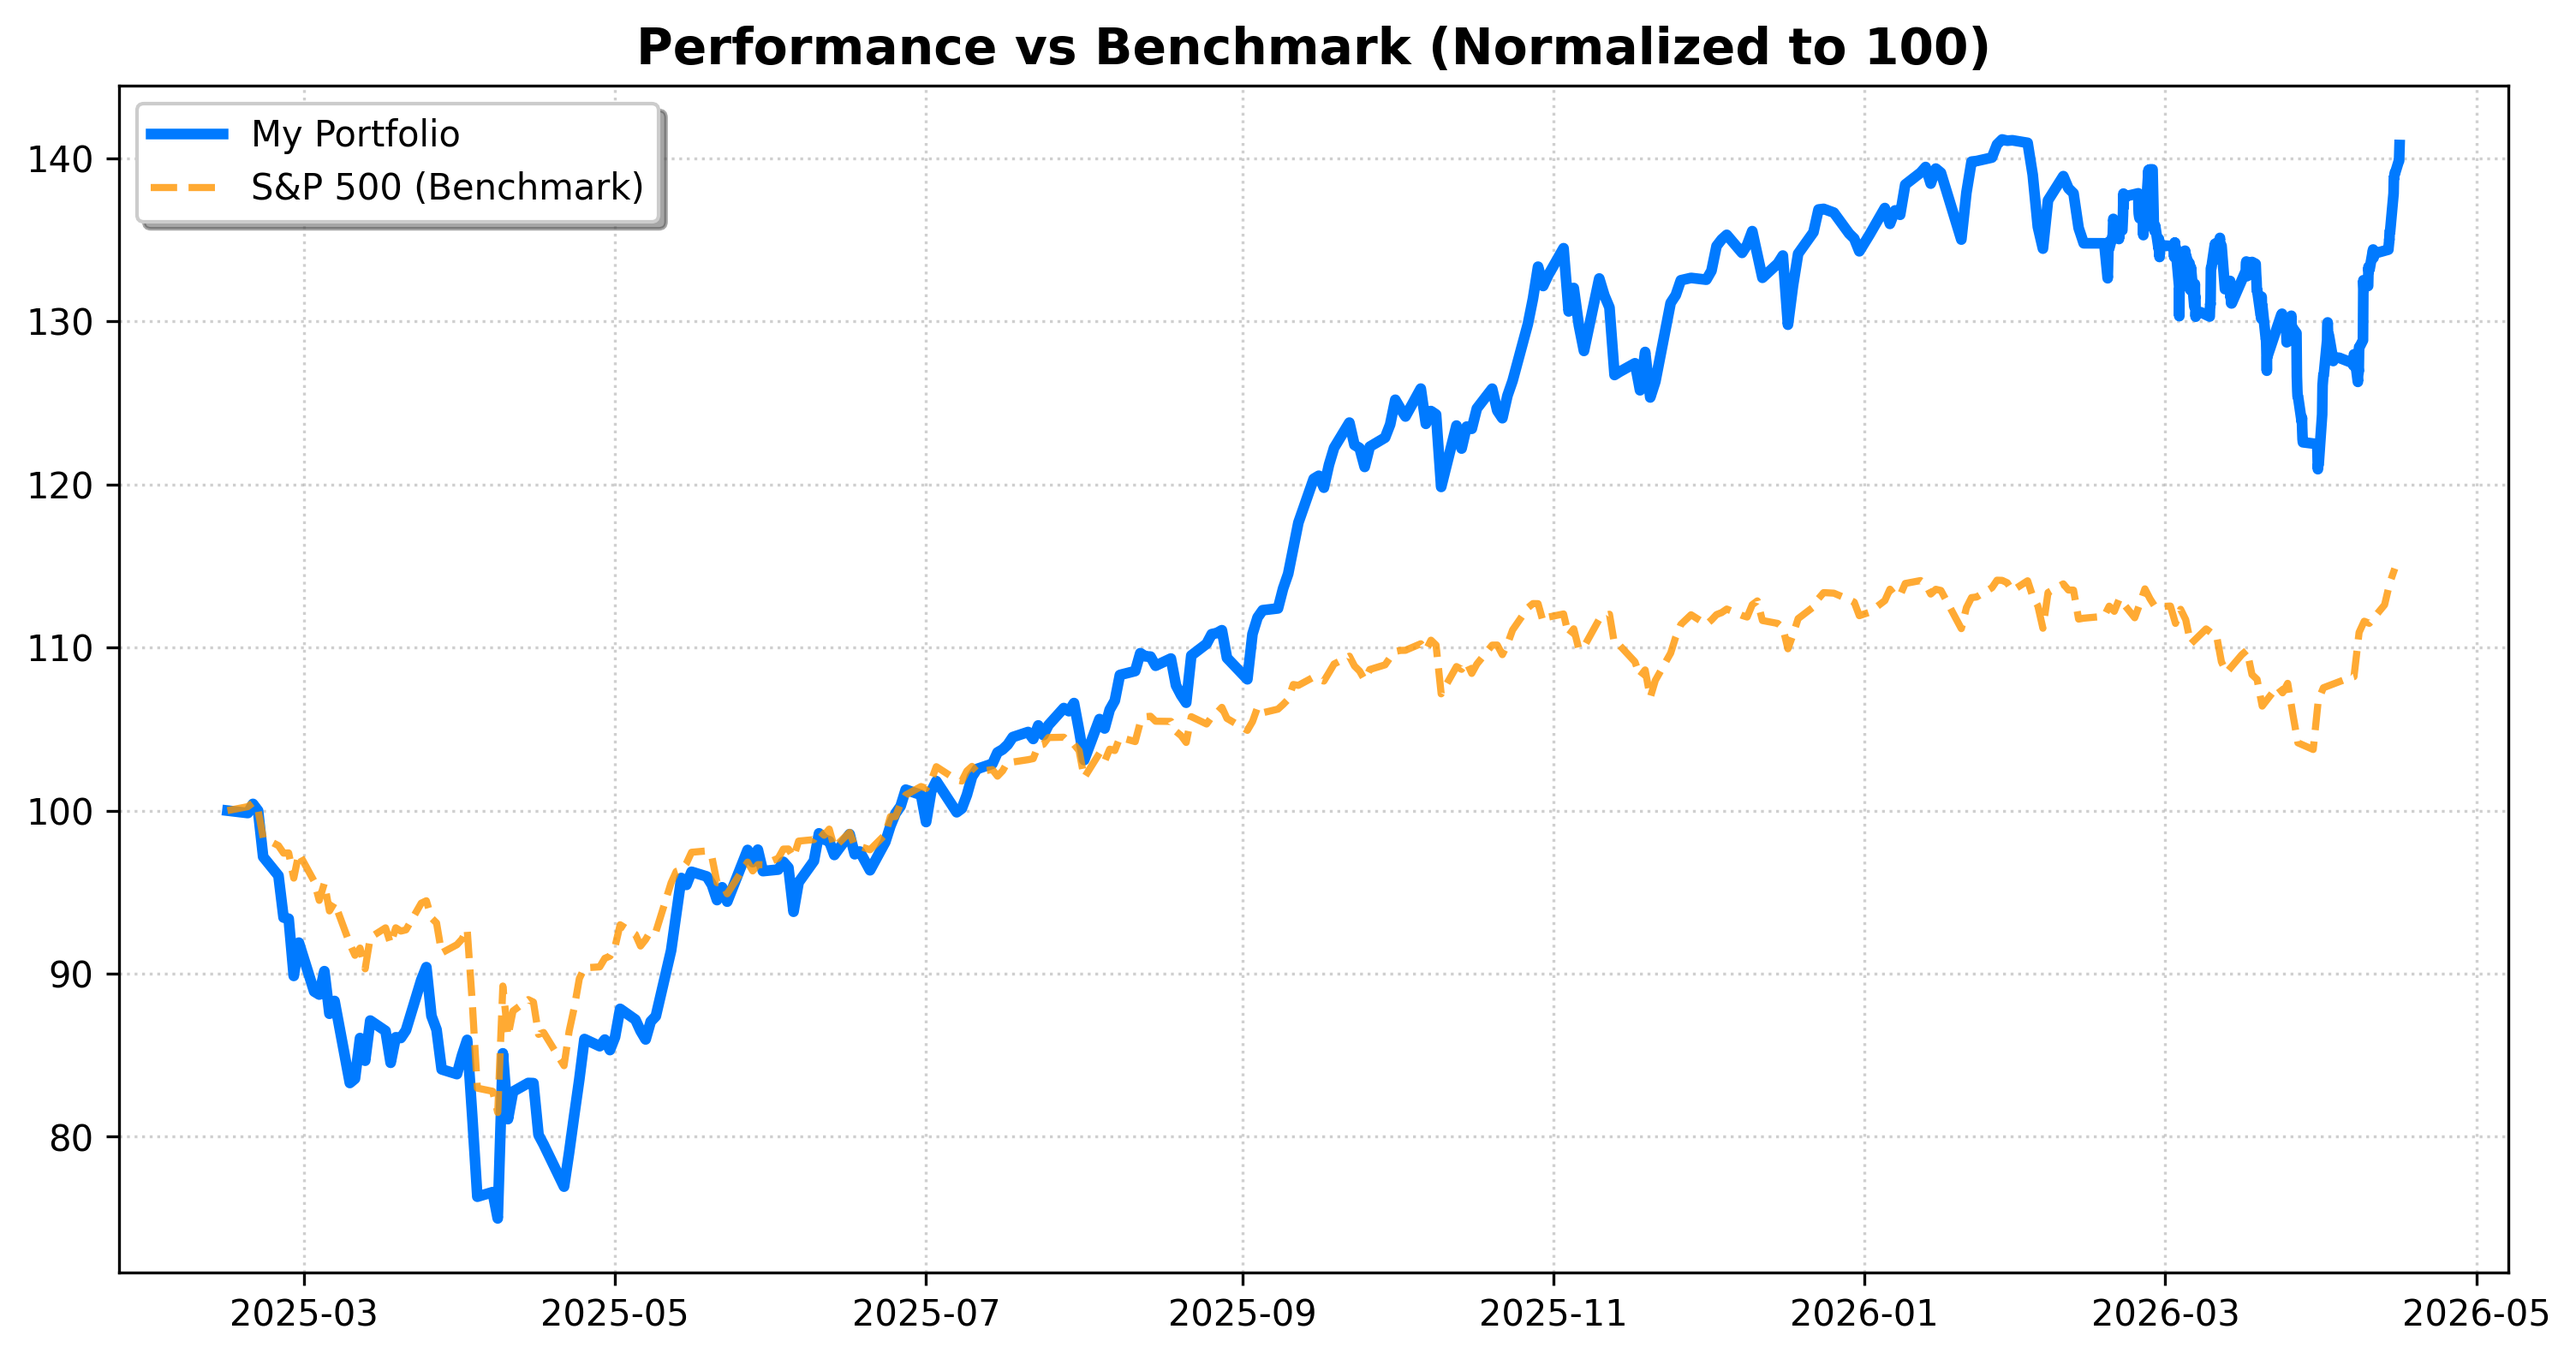
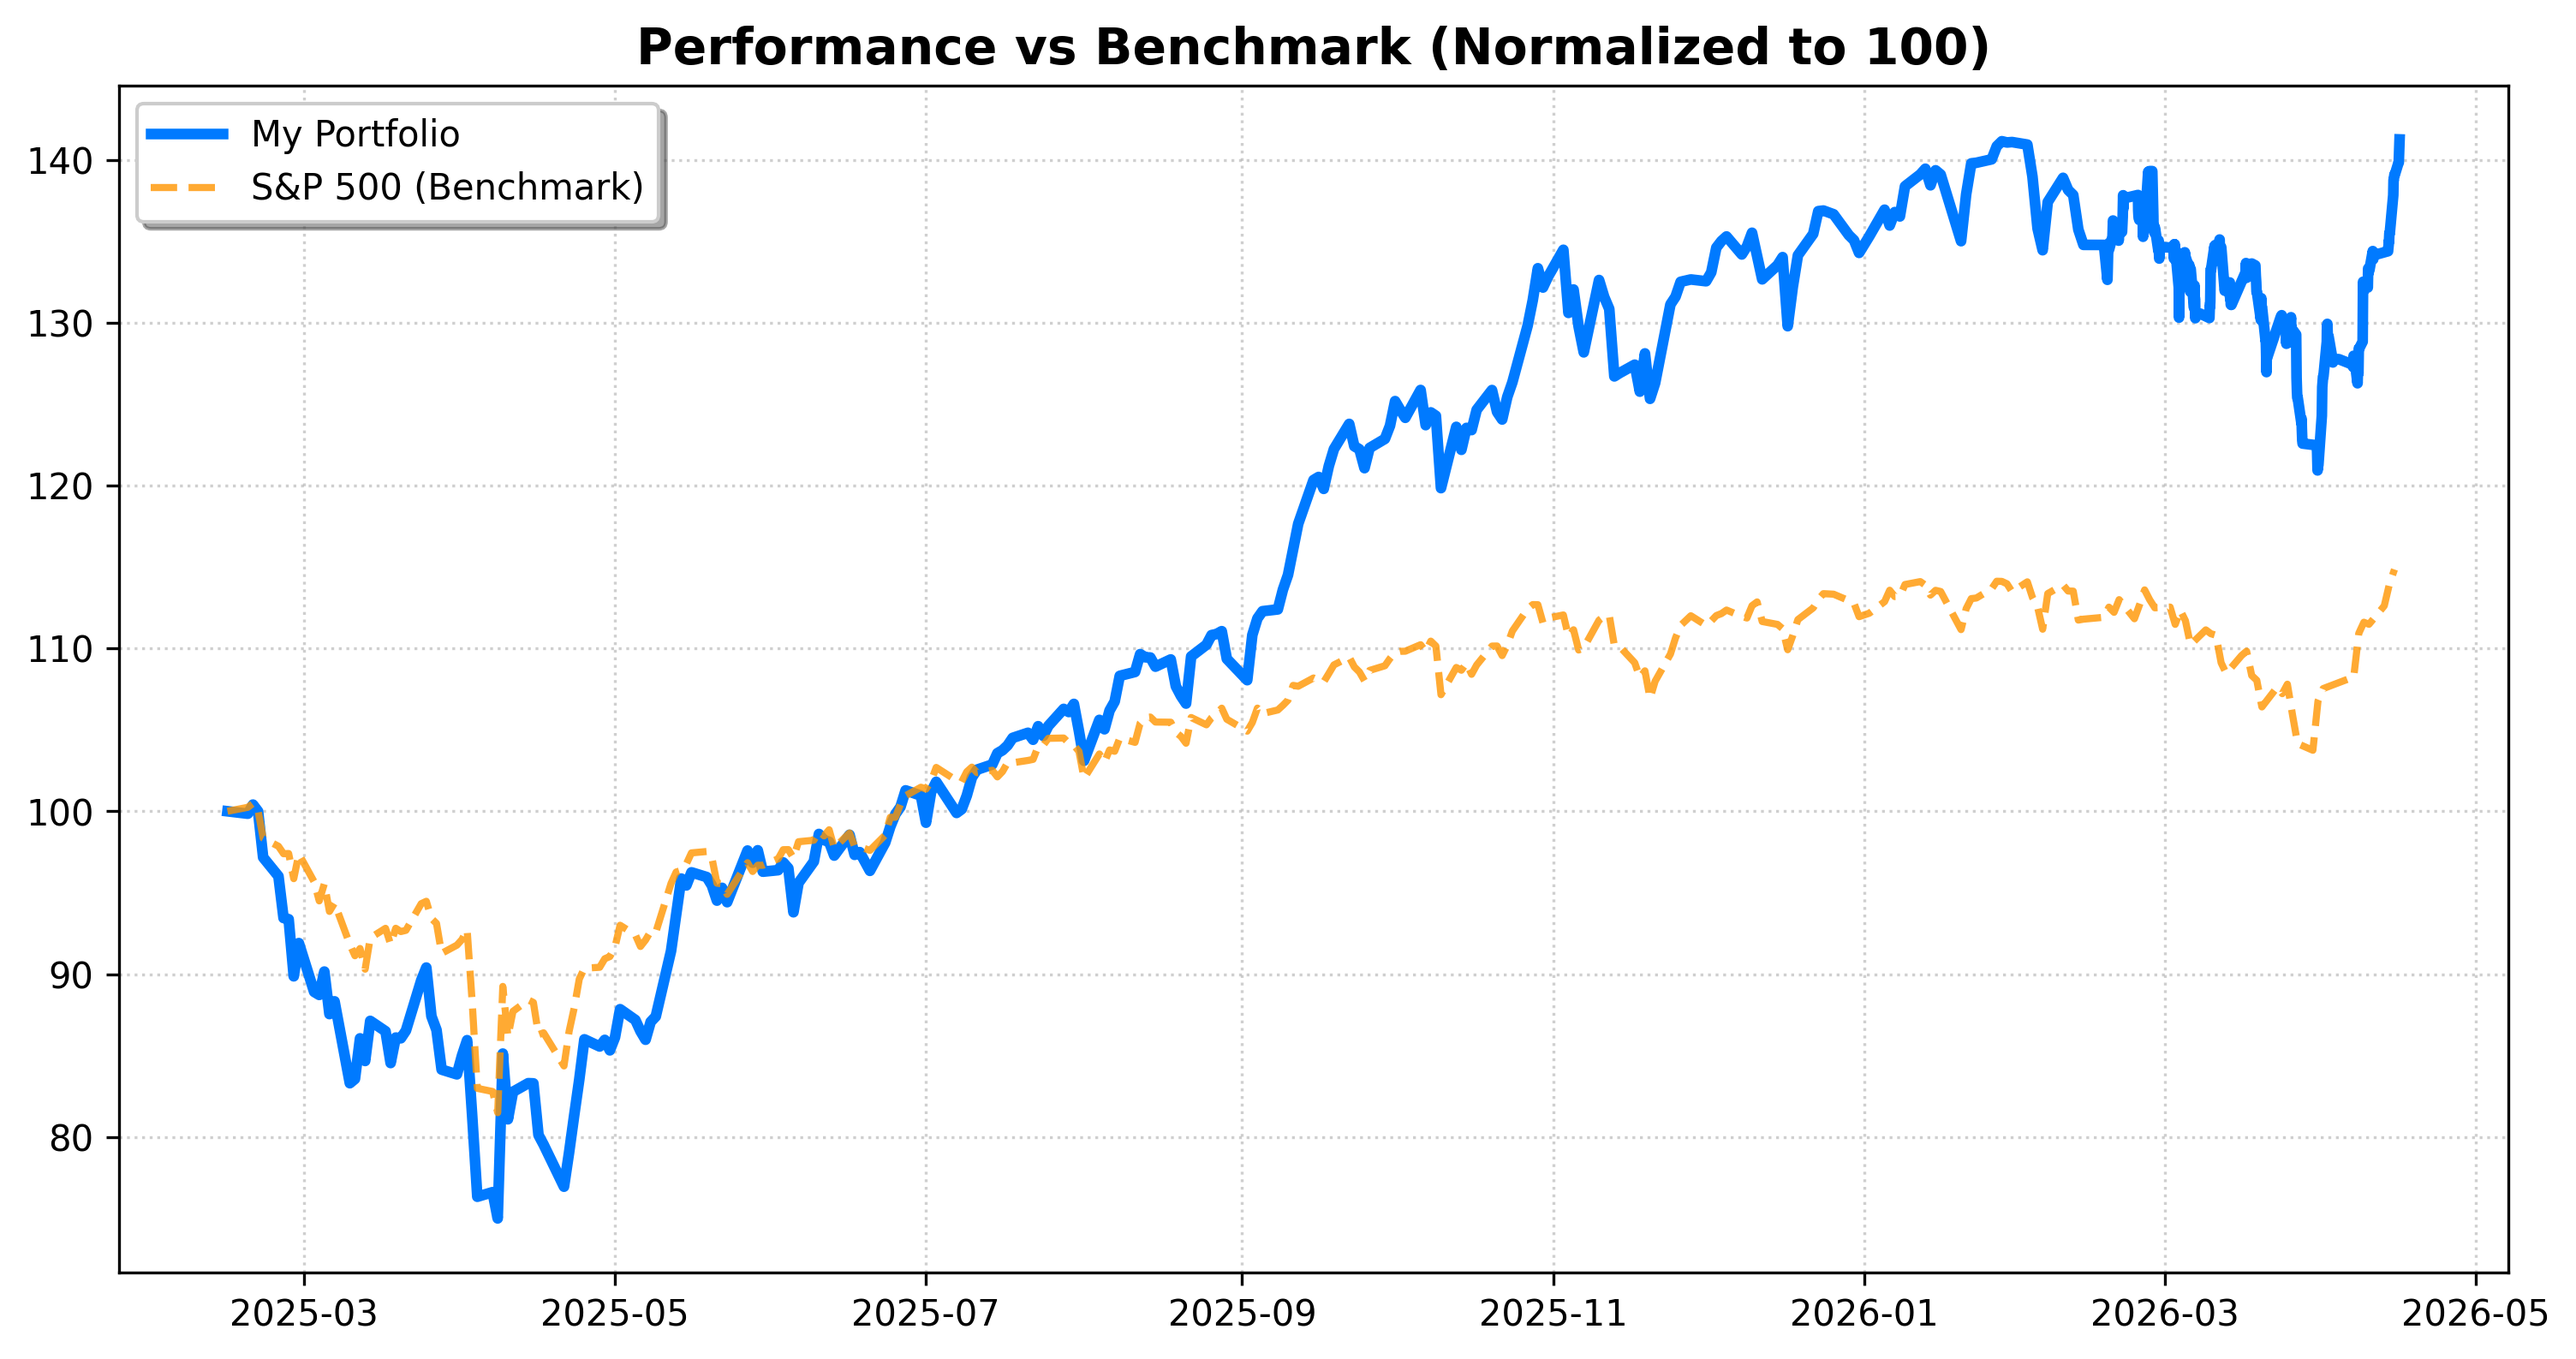
System Run: Analytics & Archive Update [skip ci]

diff --git a/README.md b/README.md
@@ -1,23 +1,23 @@
 # 📊 Portfolio Dashboard | מעקב תיק השקעות
-**Last Update:** 15/04/2026 22:26 | **USD/ILS:** ₪2.992
+**Last Update:** 15/04/2026 23:59 | **USD/ILS:** ₪2.995
 
 ## 💰 Portfolio Summary | סיכום התיק
 | Metric | Value | נתון |
 | :--- | :--- | :--- |
-| **Current Value** | `₪170,094` | **שווי נוכחי** |
-| **Total Invested** | `₪128,283` | **סך השקעה** |
-| **Total Profit/Loss** | `+32.59%` (₪41,810) | **רווח/הפסד כולל** |
-| **Daily Change** | `+1.33%` | **שינוי יומי** |
+| **Current Value** | `₪170,782` | **שווי נוכחי** |
+| **Total Invested** | `₪128,391` | **סך השקעה** |
+| **Total Profit/Loss** | `+33.02%` (₪42,392) | **רווח/הפסד כולל** |
+| **Daily Change** | `+1.65%` | **שינוי יומי** |
 
 ## 📜 Holdings | פירוט החזקות
 | Ticker | Shares | Avg. Cost | Current Price | P&L % | P&L ILS |
 | :--- | :--- | :--- | :--- | :--- | :--- |
-| GOOGL | 48 | $187.99 | $335.87 | 🟢 +78.66% | ₪21,240 |
-| ASML | 4 | $934.51 | $1,461.25 | 🟢 +56.37% | ₪6,305 |
-| XOM | 2 | $126.08 | $149.50 | 🟢 +18.58% | ₪140 |
-| NVDA | 57 | $148.62 | $198.10 | 🟢 +33.29% | ₪8,439 |
-| TSLA | 20 | $436.45 | $392.27 | 🔴 -10.12% | ₪-2,644 |
-| VOO | 24 | $527.38 | $643.37 | 🟢 +21.99% | ₪8,330 |
+| GOOGL | 48 | $187.99 | $337.15 | 🟢 +79.34% | ₪21,442 |
+| ASML | 4 | $934.51 | $1,481.93 | 🟢 +58.58% | ₪6,558 |
+| XOM | 2 | $126.08 | $149.01 | 🟢 +18.19% | ₪137 |
+| NVDA | 57 | $148.62 | $198.87 | 🟢 +33.81% | ₪8,578 |
+| TSLA | 20 | $436.45 | $392.03 | 🔴 -10.18% | ₪-2,661 |
+| VOO | 24 | $527.38 | $643.38 | 🟢 +22.00% | ₪8,338 |
 
 ## 📈 Charts | גרפים
 ![Performance](./data_hub/portfolio_performance.png)
